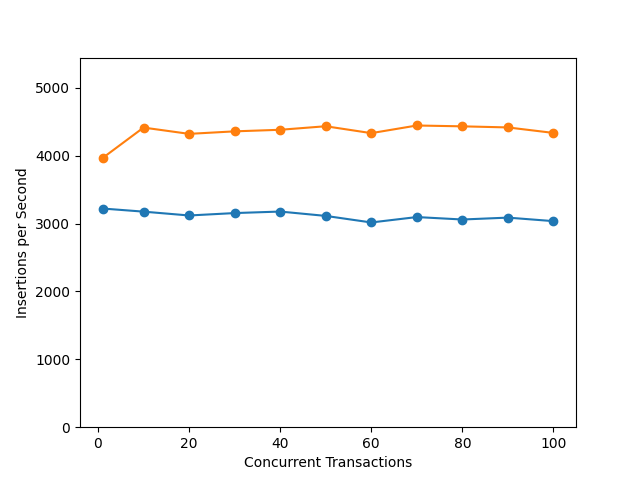
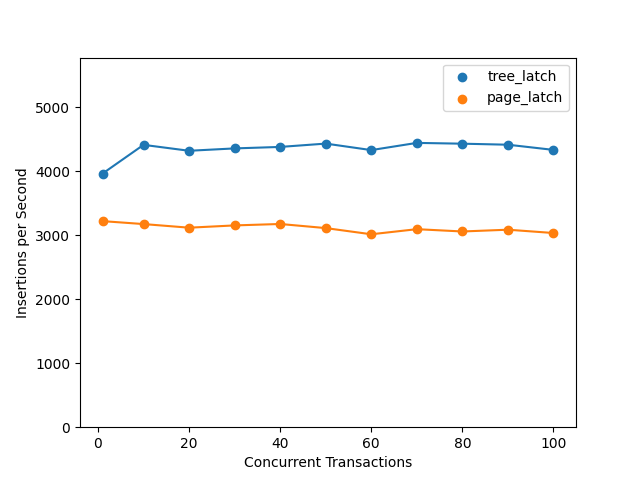
update benchmark

diff --git a/scripts/benchmark/draw.py b/scripts/benchmark/draw.py
@@ -32,7 +32,9 @@ def draw():
     f = open(report_path, "r")
     all_records = json.load(f, object_hook=lambda x: json_loader(**x))
 
-    for latch_strategy in ["page_latch", "tree_latch"]:
+    points_list = []
+
+    for latch_strategy in ["tree_latch", "page_latch"]:
         records = list(
             filter(
                 lambda x: x.target_attributes["latch_strategy"] == latch_strategy,
@@ -46,17 +48,17 @@ def draw():
         thread_count_list = [r.target_attributes["thread_count"] for r in records]
         insert_per_second = [r.test_result["insert_per_second"] for r in records]
 
-        print(thread_count_list)
-        print(insert_per_second)
-
         plt.plot(thread_count_list, insert_per_second)
-        plt.scatter(thread_count_list, insert_per_second)
+        points = plt.scatter(thread_count_list, insert_per_second, label=latch_strategy)
+        points_list.append(points)
 
     plt.xlabel("Concurrent Transactions")
     plt.ylabel("Insertions per Second")
 
-    top = max(insert_per_second) + 1000
+    top = max([r.test_result["insert_per_second"] for r in all_records]) * 1.3
     plt.ylim(bottom=0, top=top)
+
+    plt.legend(handles=points_list, loc="upper right")
 
     plt.savefig("./docs/img/insertions_per_second.png")
     return
